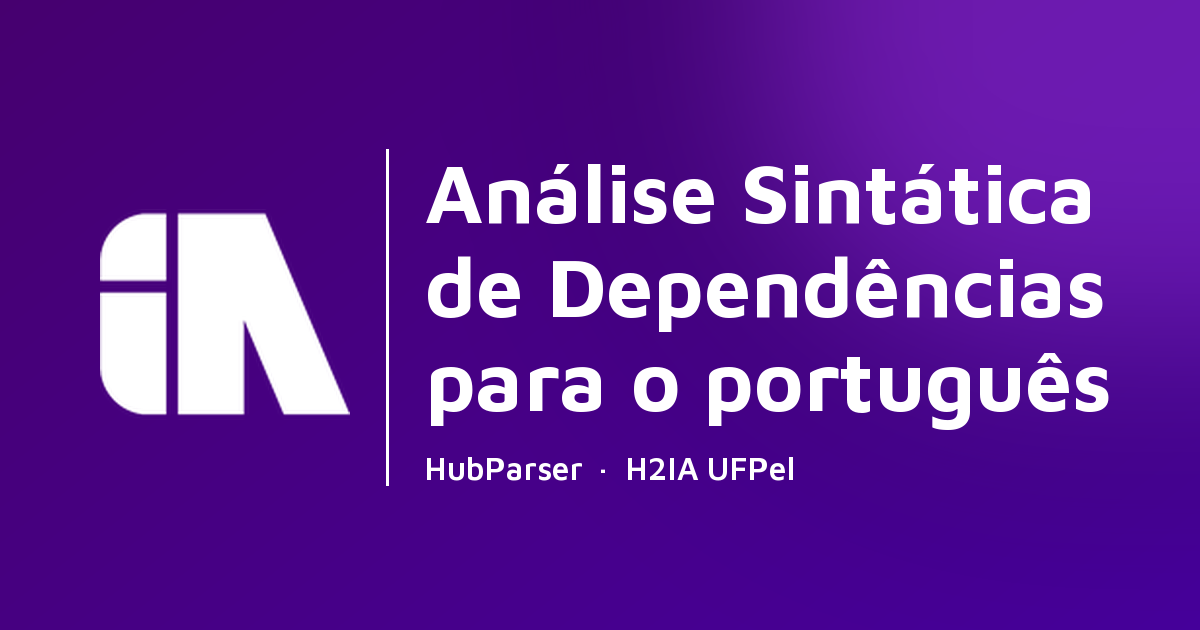
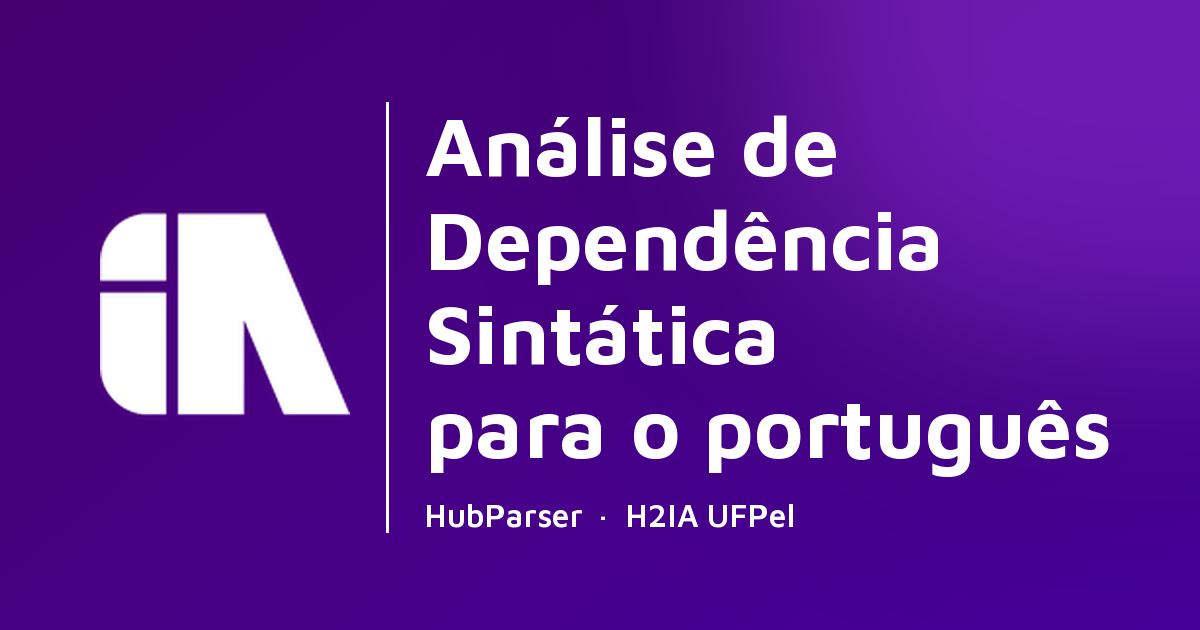
Título: Análise de Dependência Sintática para o português

Changed region(s): [[0.3392, 0.181, 0.925, 0.8444]]

diff --git a/app/index.html b/app/index.html
@@ -4,7 +4,7 @@
     <meta charset="UTF-8" />
     <meta name="viewport" content="width=device-width, initial-scale=1.0" />
     <meta name="description" content="HubParser: analisador sintático de dependências (Universal Dependencies) para o português. H2IA · UFPel." />
-    <meta property="og:title" content="Análise Sintática de Dependências para o português" />
+    <meta property="og:title" content="Análise de Dependência Sintática para o português" />
     <meta property="og:description" content="Análise sintática de dependências (Universal Dependencies) para o português, direto no navegador." />
     <meta property="og:image" content="https://huggingface.co/spaces/H2IA/HubParser/resolve/main/thumbnail.png" />
     <meta property="og:image:width" content="1200" />

diff --git a/space/README.md b/space/README.md
@@ -1,5 +1,5 @@
 ---
-title: Análise Sintática de Dependências para o português
+title: Análise de Dependência Sintática para o português
 colorFrom: purple
 colorTo: indigo
 sdk: static
